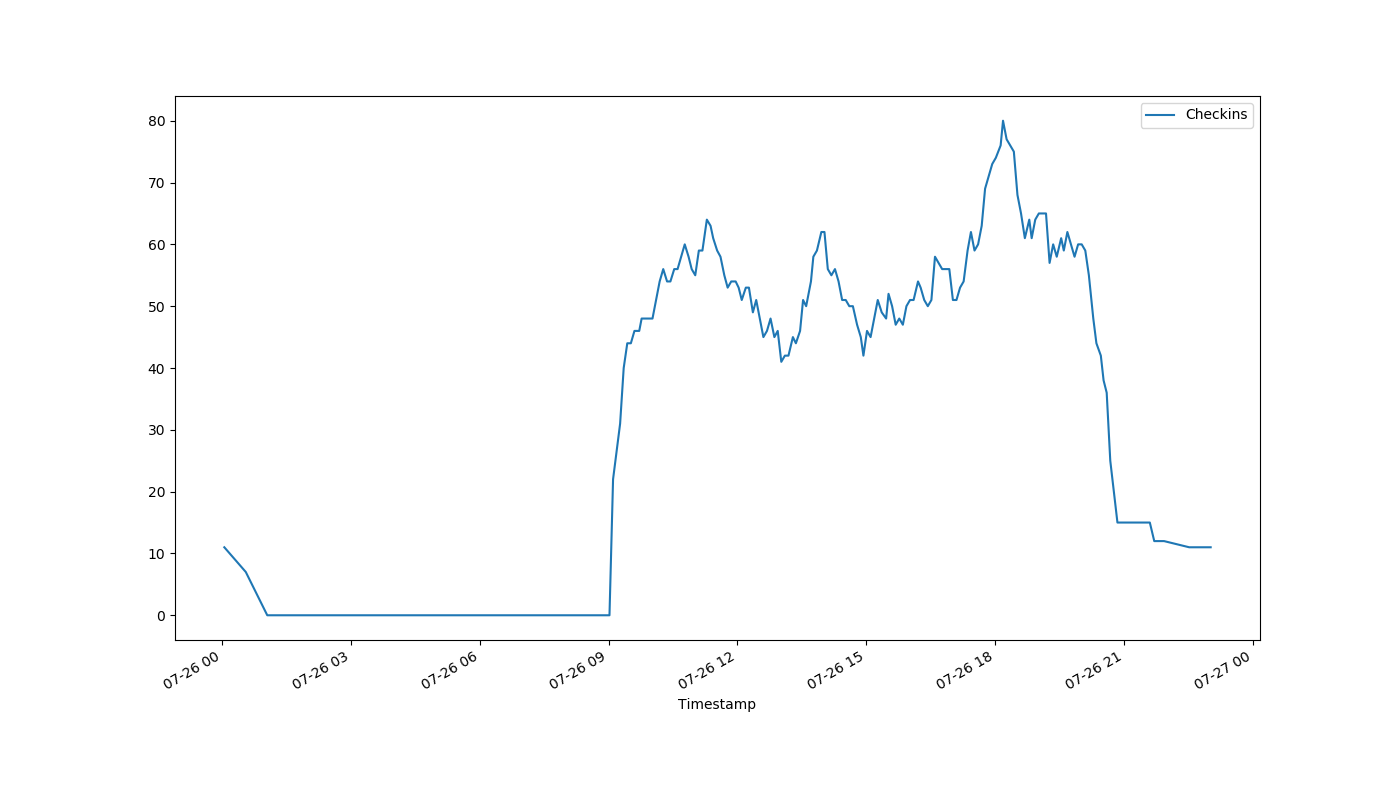
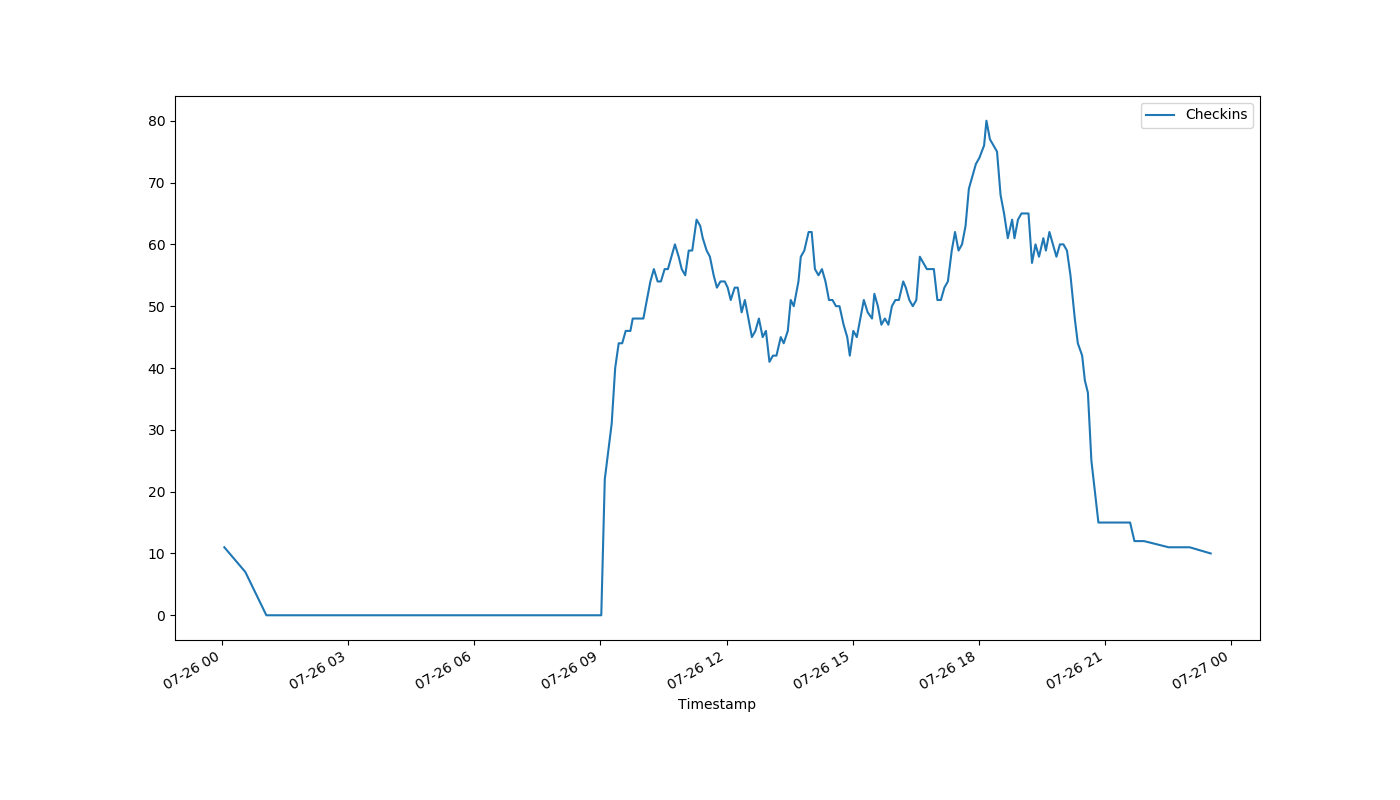
auto-Jul-26-23:33:03

diff --git a/index.html b/index.html
@@ -1,1 +1,1 @@
-<!DOCTYPE html><html><head><meta http-equiv="refresh" content="30"><link rel='stylesheet' href='holmcurrent.css'></head><body><p id='count'>11</p><div id='graph-wrap'><img id='graph' src='holmgraph-Jul-26.png'></div><p id='updated'>Last updated 23:02:04 / 23:01:20</p></body></html>
+<!DOCTYPE html><html><head><meta http-equiv="refresh" content="30"><link rel='stylesheet' href='holmcurrent.css'></head><body><p id='count'>10</p><div id='graph-wrap'><img id='graph' src='holmgraph-Jul-26.png'></div><p id='updated'>Last updated 23:32:04 / 23:31:20</p></body></html>
